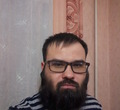
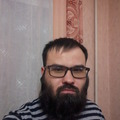
Editing index.html/user.photo

diff --git a/docs/css/main.css b/docs/css/main.css
@@ -322,7 +322,8 @@ focus {
 }
 .user-photo {
   overflow: hidden;
-  width: 110px;
+  width: 120px;
+  height: 120px;
   margin-left: auto;
   margin-right: auto;
   margin-bottom: 21px;

diff --git a/docs/less/blocks/_user-photo.less b/docs/less/blocks/_user-photo.less
@@ -1,6 +1,7 @@
 .user-photo {
   overflow: hidden;
-  width: 110px;
+  width: 120px;
+  height: 120px;
   margin-left: auto;
   margin-right: auto;
   margin-bottom: 21px;
